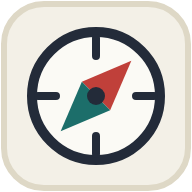
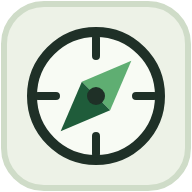
Palette verde
Stessa grafica di SOStituto e GEclass, con carta salvia, inchiostro verde scuro e accenti verdi. Bussola e icona dell'app nella nuova palette.

Claude-Session: https://claude.ai/code/session_01Q8YKoioKA4JxzQFPk2TT87

Changed region(s): [[0.3125, 0.3125, 0.6875, 0.6875]]

diff --git a/index.html b/index.html
@@ -7,18 +7,18 @@
 <link rel="manifest" href="manifest.json">
 <link rel="icon" href="icon.svg" type="image/svg+xml">
 <link rel="apple-touch-icon" href="icon-192.png">
-<meta name="theme-color" content="#F3F0E7">
+<meta name="theme-color" content="#EDF2E7">
 <link rel="preconnect" href="https://fonts.googleapis.com">
 <link rel="preconnect" href="https://fonts.gstatic.com" crossorigin>
 <link href="https://fonts.googleapis.com/css2?family=Zilla+Slab:wght@400;600;700&family=Inter:wght@400;500;600;700&display=swap" rel="stylesheet">
 <style>
-  /* Stile "registro": carta avorio, inchiostro, rosso di margine, penna verde-petrolio (come SOStituto e GEclass) */
+  /* Stile "registro" (come SOStituto e GEclass) in versione verde: carta salvia, inchiostro verde scuro, accenti verdi */
   :root{
-    --paper:#F3F0E7; --paper2:#FBFAF5; --ink:#232B39; --ink-soft:#6A7180;
-    --red:#C0403A; --teal:#1C6E6A; --amber:#B07A1E;
-    --rule:#DED8C6; --rule-soft:#E9E4D6;
-    --tint-teal:#DCEBE7; --tint-red:#F4DAD7; --tint-warm:#EFEBDD;
-    --bd-red:#E3B7B2; --tx-red-dark:#8A2F2A; --bd-ok:#A8D9BC;
+    --paper:#EDF2E7; --paper2:#F8FBF4; --ink:#1F3027; --ink-soft:#66786D;
+    --accent:#4C9A63; --teal:#2E7D4F; --amber:#B07A1E;
+    --rule:#CFDCC8; --rule-soft:#DDE8D6;
+    --tint-teal:#DDEEDC; --tint-red:#F4DAD7; --tint-warm:#E6EEDD;
+    --bd-red:#E3B7B2; --tx-red-dark:#8A2F2A; --bd-ok:#A9D4B5;
   }
   *{box-sizing:border-box;-webkit-tap-highlight-color:transparent}
   html,body{margin:0;padding:0}
@@ -27,7 +27,7 @@
   .brand{display:flex;align-items:center;gap:10px}
   .logo{width:46px;height:46px;flex:0 0 auto}
   header h1{font-family:'Zilla Slab',Georgia,serif;font-weight:700;font-size:30px;letter-spacing:-.01em;line-height:1;margin:0}
-  header h1 .m{color:var(--red)}
+  header h1 .m{color:var(--accent)}
   .sub{font-size:13px;color:var(--ink-soft);margin-top:3px;font-weight:500}
   /* barra inferiore a schede, come in SOStituto */
   nav{position:fixed;bottom:0;left:0;right:0;max-width:760px;margin:0 auto;display:flex;background:var(--paper2);border-top:2px solid var(--ink);z-index:100}
@@ -49,7 +49,7 @@
   table.grid{border-collapse:collapse;width:100%;background:var(--paper2);border:1.5px solid var(--rule)}
   table.grid th,table.grid td{border:1px solid var(--rule-soft);padding:6px;vertical-align:top}
   table.grid thead th{background:var(--ink);color:var(--paper);text-align:left;white-space:nowrap;font-family:'Zilla Slab',Georgia,serif}
-  table.grid tbody th{background:var(--tint-warm);color:var(--ink);text-align:left;white-space:nowrap;border-left:3px solid rgba(192,64,58,.45)}
+  table.grid tbody th{background:var(--tint-warm);color:var(--ink);text-align:left;white-space:nowrap;border-left:3px solid rgba(76,154,99,.55)}
   table.grid td{min-width:120px}
   .ev{border-radius:7px;padding:4px 6px;margin-bottom:4px;font-size:12px;color:var(--ink)}
   .ev.var{outline:1.5px dashed var(--amber);outline-offset:-2px}
@@ -113,13 +113,13 @@
 <header>
   <div class="brand">
     <svg class="logo" viewBox="0 0 48 48" role="img" aria-label="Bussola">
-      <circle cx="24" cy="24" r="20" fill="#FBFAF5" stroke="#232B39" stroke-width="3"/>
-      <path d="M24 7v5M24 36v5M7 24h5M36 24h5" stroke="#232B39" stroke-width="2.2" stroke-linecap="round"/>
+      <circle cx="24" cy="24" r="20" fill="#F8FBF4" stroke="#1F3027" stroke-width="3"/>
+      <path d="M24 7v5M24 36v5M7 24h5M36 24h5" stroke="#1F3027" stroke-width="2.2" stroke-linecap="round"/>
       <g transform="rotate(45 24 24)">
-        <path d="M24 11 L29.5 24 H18.5 Z" fill="#C0403A"/>
-        <path d="M24 37 L29.5 24 H18.5 Z" fill="#1C6E6A"/>
+        <path d="M24 11 L29.5 24 H18.5 Z" fill="#5FAE72"/>
+        <path d="M24 37 L29.5 24 H18.5 Z" fill="#1F5C3A"/>
       </g>
-      <circle cx="24" cy="24" r="2.5" fill="#232B39"/>
+      <circle cx="24" cy="24" r="2.5" fill="#1F3027"/>
     </svg>
     <div>
       <h1><span class="m">Mest</span>Space</h1>
